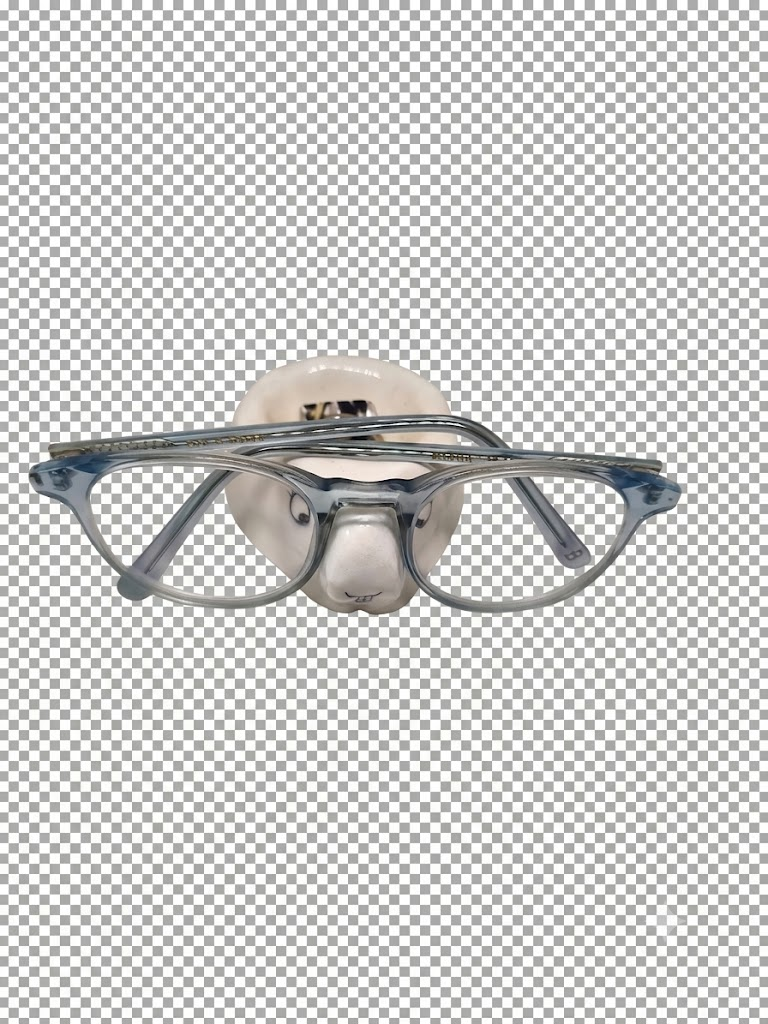
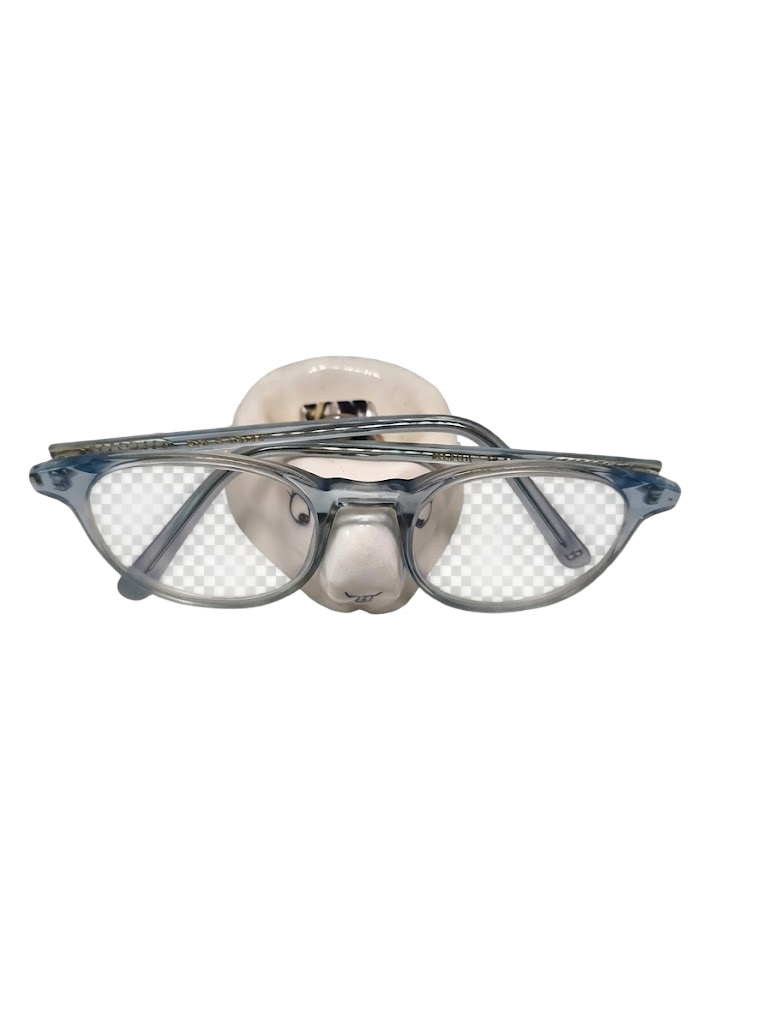
Agrandar+centrar Joyero (foto actualizada), Iniciales y Adornos en Cerámica

diff --git a/index.html b/index.html
@@ -560,10 +560,10 @@
             </article>
 
             <article class="product-card" data-title="Joyero para burós" data-images="Joyero%20con%20Lentes.png|Joyero%20en%20Buro.png|Descansa%20Lentes%20a.png|Descansa%20Lentes%20b.png|Descansa%20Lentes%20c.png" data-images-webp="Joyero%20con%20Lentes.webp|Joyero%20en%20Buro.webp|Descansa%20Lentes%20a.webp|Descansa%20Lentes%20b.webp|Descansa%20Lentes%20c.webp">
-              <button type="button" class="product-media" aria-label="Ver imágenes de Joyero para burós">
+              <button type="button" class="product-media media-cover" aria-label="Ver imágenes de Joyero para burós">
                 <picture>
                   <source srcset="Joyero%20con%20Lentes.webp" type="image/webp" />
-                  <img src="Joyero%20con%20Lentes.png" alt="Joyero de cerámica para burós" loading="lazy" />
+                  <img src="Joyero%20con%20Lentes.png" alt="Joyero de cerámica para burós" loading="lazy" style="object-position: 46% 47%" />
                 </picture>
                 <span class="media-badge" aria-hidden="true">🔍 5 fotos</span>
               </button>
@@ -634,10 +634,10 @@
           </article>
 
           <article class="product-card" data-title="Iniciales" data-images="Letra%20e.png|letra%20en%20sala.png" data-images-webp="Letra%20e.webp|letra%20en%20sala.webp">
-            <button type="button" class="product-media" aria-label="Ver imágenes de Iniciales">
+            <button type="button" class="product-media media-cover" aria-label="Ver imágenes de Iniciales">
               <picture>
                 <source srcset="Letra%20e.webp" type="image/webp" />
-                <img src="Letra%20e.png" alt="Iniciales personalizadas en cerámica artesanal" loading="lazy" />
+                <img src="Letra%20e.png" alt="Iniciales personalizadas en cerámica artesanal" loading="lazy" style="object-position: 50% 49%" />
               </picture>
               <span class="media-badge" aria-hidden="true">🔍 2 fotos</span>
             </button>
@@ -671,10 +671,10 @@
           </article>
 
           <article class="product-card" data-title="Adornos en Cerámica" data-images="Adornos%20en%20ceramica.png" data-images-webp="Adornos%20en%20ceramica.webp">
-            <button type="button" class="product-media" aria-label="Ver imagen de Adornos en Cerámica">
+            <button type="button" class="product-media media-cover" aria-label="Ver imagen de Adornos en Cerámica">
               <picture>
                 <source srcset="Adornos%20en%20ceramica.webp" type="image/webp" />
-                <img src="Adornos%20en%20ceramica.png" alt="Adornos decorativos en cerámica artesanal" loading="lazy" />
+                <img src="Adornos%20en%20ceramica.png" alt="Adornos decorativos en cerámica artesanal" loading="lazy" style="object-position: 50% 49%" />
               </picture>
             </button>
             <div class="product-body">
